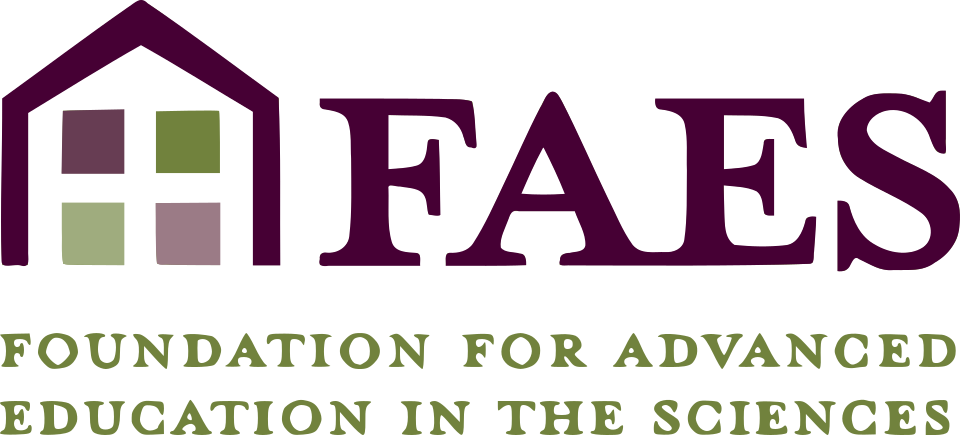
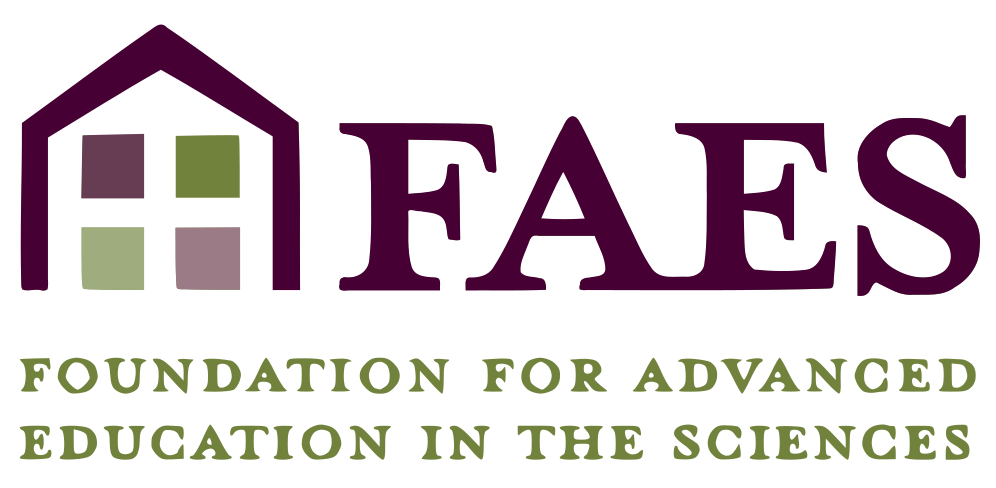
make template work as readme and add script to convert to docx

diff --git a/template.md b/template.md
@@ -1,5 +1,6 @@
-::: {custom-style="center"}
-![](media/faes300.png){height="2cm"}
+<div align="center">
+
+<img src="media/faes300.png" width="200">
 
 Course Identification Number and Title
 
@@ -8,161 +9,163 @@ Number of Credits
 Term and Year
 
 Syllabus
-:::
+</div>
 
-# Instructor: \_\_\_\_ \_\_\_\_
+### Instructor: \_\_\_\_ \_\_\_\_
 
-# Contact Information:
+### Contact Information:
 
-## E-mail: \_\_\_\_@gmail.com
+- E-mail: \_\_\_\_@gmail.com
 
-## Phone: \_\_\_-\_\_\_-\_\_\_\_
+- Phone: \_\_\_-\_\_\_-\_\_\_\_
 
-## Virtual Office Hours: \_\_\_\_days, \_\_:\_\_-\_\_:\_\_
+- Virtual Office Hours: \_\_\_\_days, \_\_:\_\_-\_\_:\_\_
 
-## Preferred Method of Communication: https://gitter.im/\_\_\_\_/community
+- Preferred Method of Communication: https://gitter.im/\_\_\_\_/community
 
-# Course Information:
+### Course Information:
 
-## Prerequisites: None
+- Prerequisites: None
 
-## Course Description:
+- Course Description:
 
-## Course Website:
+- Course Website:
 
-### Explanation for how, and how frequently, to access the course site
+  - Explanation for how, and how frequently, to access the course site
 
-## Learning Materials:
+- Learning Materials:
 
-### Required and Recommended Texts:
+  - Required and Recommended Texts:
 
-### Required Journal Articles:
+  - Required Journal Articles:
 
-#### Explanation for how to access these articles
+    - Explanation for how to access these articles
 
-## Course Goals
+- Course Goals
 
-### When you complete the course successfully, you will be able to:
+  - When you complete the course successfully, you will be able to:
 
-#### \[Add the goals here\]
+    - \[Add the goals here\]
 
-## Structure of the Course
+- Structure of the Course
 
-### Organization of the course
+  - Organization of the course
 
-### The Learning Process
+  - The Learning Process
 
-#### Your teaching and learning philosophy
+    - Your teaching and learning philosophy
 
-#### Methods for students to achieve success
+    - Methods for students to achieve success
 
-#### Time commitment
+    - Time commitment
 
-# Important Dates:
+### Important Dates:
 
-## Drop deadline
+- Drop deadline
 
-## Audit and withdrawal deadline
+- Audit and withdrawal deadline
 
-## Holidays
+- Holidays
 
-# Communication:
+### Communication:
 
-## Reply to email:
+- Reply to email:
 
-## Reply to voicemail:
+- Reply to voicemail:
 
-## Preferred time to call:
+- Preferred time to call:
 
-## Other forms of communication, if applicable:
+- Other forms of communication, if applicable:
 
-# Etiquette:
+### Etiquette:
 
-## Email:
+- Email:
 
-## Group etiquette:
+- Group etiquette:
 
-## Discussion board etiquette:
+- Discussion board etiquette:
 
-# Policies:
+### Policies:
 
 **\[PLEASE DO NOT CHANGE OR DELETE THE TEXT BELOW THROUGH THE \*\*\*\]**
 
-## Academic Policies:
+- Academic Policies:
 
-### This course adheres to all FAES policies described in the academic catalog and student handbook, including the Academic Integrity policy listed on page 11 of the academic catalog and student handbook. Be certain that you are knowledgeable about all of the policies listed in this syllabus, in the academic catalog and student handbook, and on the FAES website. As a student in this program, you are bound by those policies.
+  - This course adheres to all FAES policies described in the academic catalog and student handbook, including the Academic Integrity policy listed on page 11 of the academic catalog and student handbook. Be certain that you are knowledgeable about all of the policies listed in this syllabus, in the academic catalog and student handbook, and on the FAES website. As a student in this program, you are bound by those policies.
 
-## Copyright:
+- Copyright:
 
-### All course materials are the property of FAES and are to be used for the student’s individual academic purpose only. Any dissemination, copying, reproducing, modification, displaying, or transmitting of any course material for any other purpose is prohibited, will be considered misconduct, and may be cause for disciplinary action. In addition, encouraging academic dishonesty by distributing information about course materials or assignments which would give an unfair advantage to others may violate the FAES Academic Integrity policy. Course materials may not be exchanged or distributed for commercial purposes, for compensation, or for any purpose other than use by students enrolled in the course. Distributions of course materials may be subject to disciplinary action.
+  - All course materials are the property of FAES and are to be used for the student’s individual academic purpose only. Any dissemination, copying, reproducing, modification, displaying, or transmitting of any course material for any other purpose is prohibited, will be considered misconduct, and may be cause for disciplinary action. In addition, encouraging academic dishonesty by distributing information about course materials or assignments which would give an unfair advantage to others may violate the FAES Academic Integrity policy. Course materials may not be exchanged or distributed for commercial purposes, for compensation, or for any purpose other than use by students enrolled in the course. Distributions of course materials may be subject to disciplinary action.
 
-## Guidelines for Disability Accommodations:
+- Guidelines for Disability Accommodations:
 
-### FAES is committed to providing reasonable and appropriate accommodations to students with disabilities. Students with documented disabilities should contact Dr. Mindy Maris, Assistant Dean of Academic Programs.
+  - FAES is committed to providing reasonable and appropriate accommodations to students with disabilities. Students with documented disabilities should contact Dr. Mindy Maris, Assistant Dean of Academic Programs.
 
-## Dropping the Course:
+- Dropping the Course:
 
-### Students are responsible for understanding FAES policies, procedures, and deadlines regarding dropping or withdrawing from the course or switching to audit status.
+  - Students are responsible for understanding FAES policies, procedures, and deadlines regarding dropping or withdrawing from the course or switching to audit status.
 
-## Harassment:
+- Harassment:
 
-### FAES adheres to the NIH’s harassment policies, which can be found at the following link: <https://hr.nih.gov/working-nih/civil/statement-workplace-harassment>
+  - FAES adheres to the NIH’s harassment policies, which can be found at the following link: <https://hr.nih.gov/working-nih/civil/statement-workplace-harassment>
 
-### Faculty and students in FAES courses are responsible for being familiar with the NIH’s harassment policies and adhering to them.
+  - Faculty and students in FAES courses are responsible for being familiar with the NIH’s harassment policies and adhering to them.
 
 **\[\*\*\*\]**
 
 \[INCLUDE LANGUAGE ABOUT YOUR OWN POLICIES REGARDING THE FOLLOWING:\]
 
-## Attendance
+- Attendance
 
-## Participation
+- Participation
 
-## Assignment Submission
+- Assignment Submission
 
-## Due Dates
+- Due Dates
 
-## Late Submission Policies
+- Late Submission Policies
 
-## Assignment Formats
+- Assignment Formats
 
-## Citation Format
+- Citation Format
 
-## Discussion Board Policies, if applicable:
+- Discussion Board Policies, if applicable:
 
-### Guidelines for posts
+  - Guidelines for posts
 
-### Due dates
+  - Due dates
 
-### Late submission policies
+  - Late submission policies
 
-# Step-by-Step Guidelines for Submitting Assignments:
+### Assignments:
 
-# Expectations for instructor’s feedback on assignments:
+- Step-by-Step Guidelines for Submitting Assignments:
 
-# Major Assignments:
+- Expectations for instructor’s feedback on assignments:
 
-## Detailed assignment descriptions
+- Major Assignments:
 
-## Value of each assignment / percentage of total course grade
+  - Detailed assignment descriptions
 
-# Grading Scale:
+  - Value of each assignment / percentage of total course grade
 
-# Weekly Schedule:
+### Grading Scale:
 
-Week   Readings   Learning Activities and Assignments
-------|----------|-------------------------------------
-1     |          |
-2     |          |
-3     |          |
-4     |          |
-5     |          |
-6     |          |
-7     |          |
-8     |          |
-9     |          |
-10    |          |
-11    |          |
-12    |          |
-13    |          |
-14    |          |
+### Weekly Schedule:
+
+| Week | Readings | Learning Activities and Assignments |
+|------|----------|-------------------------------------|
+| 1    |          |                                     |
+| 2    |          |                                     |
+| 3    |          |                                     |
+| 4    |          |                                     |
+| 5    |          |                                     |
+| 6    |          |                                     |
+| 7    |          |                                     |
+| 8    |          |                                     |
+| 9    |          |                                     |
+| 10   |          |                                     |
+| 11   |          |                                     |
+| 12   |          |                                     |
+| 13   |          |                                     |
+| 14   |          |                                     |
